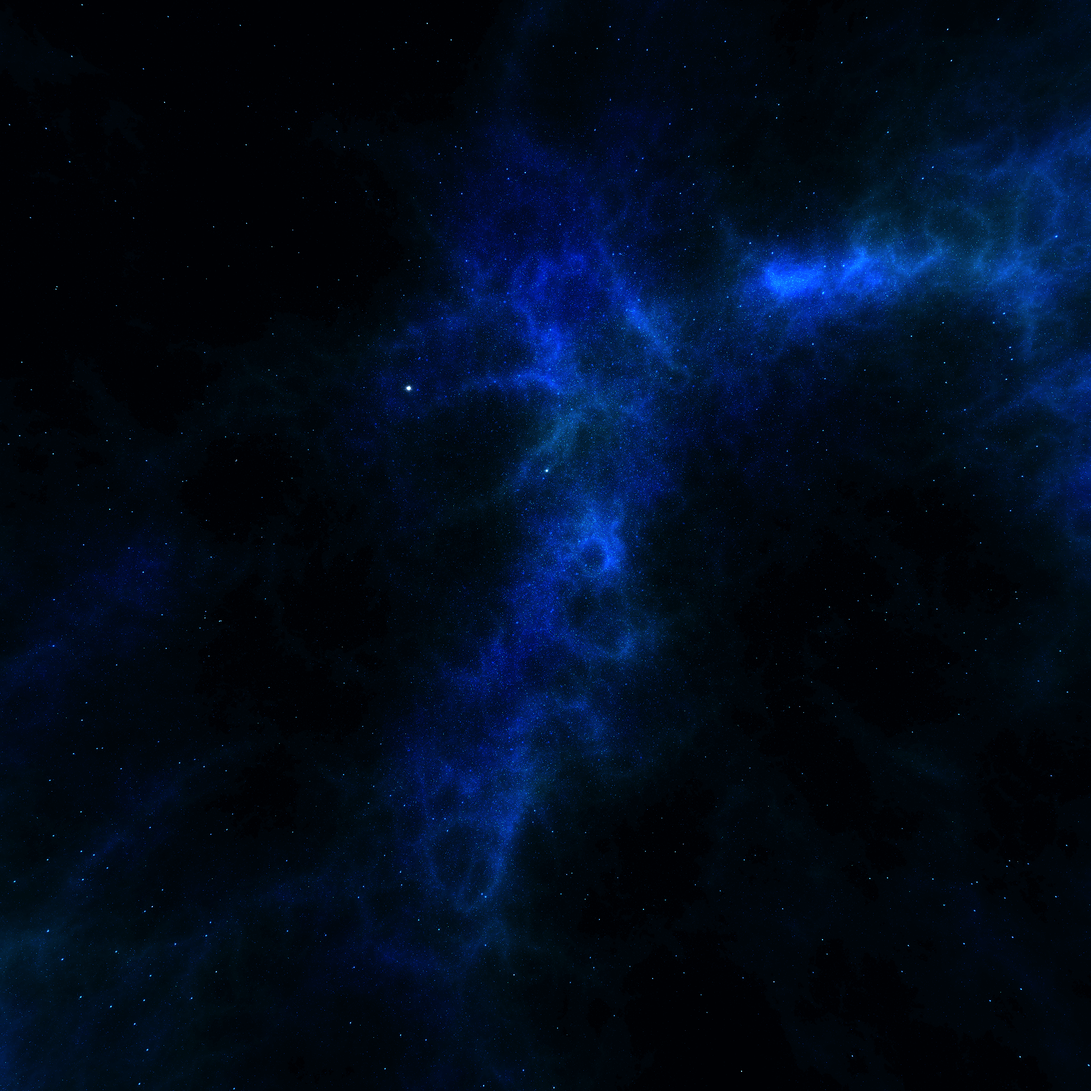
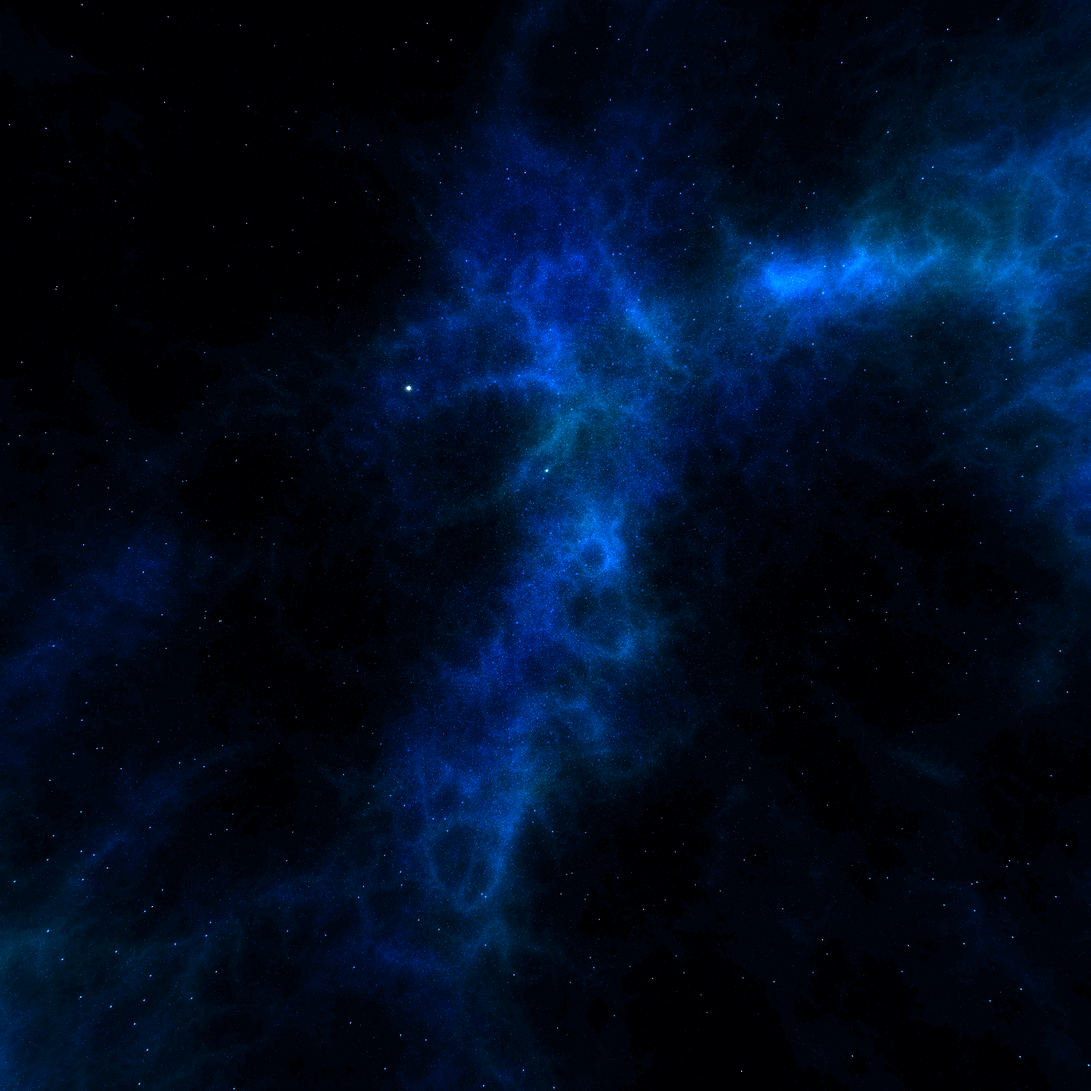
Various improvements
Tweak animation engine API. It now takes startTime/endTime instead of
startTime/duration, and it returns a promise which resolves when the
animation finishes. Also reduce size of background images.

diff --git a/src/animationEngine.ts b/src/animationEngine.ts
@@ -1,32 +1,37 @@
 export interface Animation {
     startTime: number;
-    duration: number;
+    endTime: number;
     effect(t: number): void;
 }
 
 export function runAnimations(
     animations: Animation[],
     render: () => void,
-): void {
-    const duration = animations
-        .map(a => a.startTime + a.duration)
+): Promise<void> {
+    const maxEndTime = animations
+        .map(a => a.endTime)
         .reduce((a, b) => Math.max(a, b));
-    const startTime = Date.now();
+    const runnerStartTime = Date.now();
     const finished = animations.map(() => false);
-    (function animate() {
-        const elapsedTime = Date.now() - startTime;
-        animations.forEach((animation, i) => {
-            const t = (elapsedTime - animation.startTime) / animation.duration;
-            if (0 <= t && t < 1) {
-                animation.effect(t);
-            } else if (t >= 1 && !finished[i]) {
-                animation.effect(1);
-                finished[i] = true;
+    return new Promise(resolve =>
+        (function animate() {
+            const elapsedTime = Date.now() - runnerStartTime;
+            animations.forEach((animation, i) => {
+                const { startTime, endTime } = animation;
+                const t = (elapsedTime - startTime) / (endTime - startTime);
+                if (0 <= t && t < 1) {
+                    animation.effect(t);
+                } else if (t >= 1 && !finished[i]) {
+                    animation.effect(1);
+                    finished[i] = true;
+                }
+            });
+            render();
+            if (elapsedTime < maxEndTime) {
+                requestAnimationFrame(animate);
+            } else {
+                resolve();
             }
-        });
-        render();
-        if (elapsedTime < duration) {
-            requestAnimationFrame(animate);
-        }
-    })();
+        })(),
+    );
 }

diff --git a/src/index.ts b/src/index.ts
@@ -55,12 +55,12 @@ function main(): void {
     const animations: Animation[] = [
         {
             startTime: 2000,
-            duration: 1000,
+            endTime: 3000,
             effect: t => startBall.setFlatness(1 - t),
         },
         {
             startTime: 2000,
-            duration: 4000,
+            endTime: 6000,
             effect: t => {
                 camera.position.x = 6 * t;
                 camera.position.z =
@@ -69,12 +69,12 @@ function main(): void {
         },
         {
             startTime: 3000,
-            duration: 3000,
+            endTime: 6000,
             effect: t => (camera.rotation.y = -4 * Math.PI / 8 * t * (1 - t)),
         },
         {
             startTime: 5000,
-            duration: 1000,
+            endTime: 6000,
             effect: t => endBall.setFlatness(t),
         },
     ];

diff --git a/webpack.config.js b/webpack.config.js
@@ -69,7 +69,7 @@ function getDevOnlyPlugins() {
 module.exports = {
     devtool: !isProduction && "inline-source-map",
     entry: {
-        hankBall: ["./src/index.ts"],
+        index: ["./src/index.ts"],
     },
     output: {
         filename: "[name].js",
